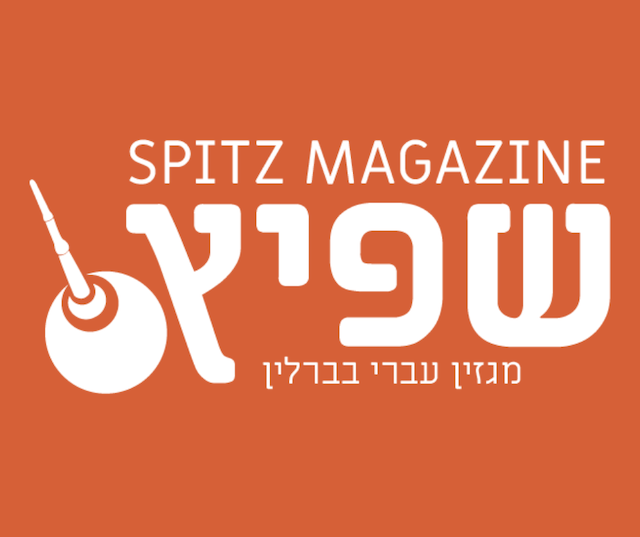
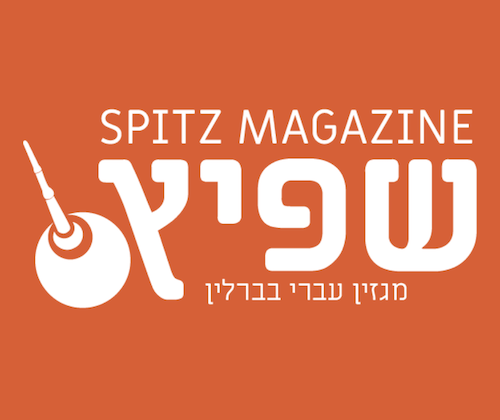
smaller size

diff --git a/index.html b/index.html
@@ -24,10 +24,10 @@
 
 <div class="grid_container" style = "border: double; margin-top:0.5em; background-color: #FEBF6E; text-align: center">
 	<h2 style = "margin-top:1em; font-weight: bold" >à la levant</h2>
-	<p style = "padding:2.2em 5em"> <i> exploring levantine food and community building in Berlin </i> </p>
+	<p style = "padding:2.2em 5em"> <i> exploring levantine food, culture, and community-building in Berlin </i> </p>
 
 	<div class="grid_text_overlay" >
-   			<div class="grid_text" style = "margin: .5em -7em 0em 0em; text-align: left"><h4> <i>The Levant</i>, the region centered around modern Syria, Lebanon, Israel, Palestine, and Jordan, is one full of culture, tradition, and migration. How does food from this area embody, transcend, and build community? <br> We took the melting pot city of Berlin as a use-case and developed <b>à la levant</b>, a delicious collection of interviews and photos reflecting Levantine expression through food. </h4></div>
+   			<div class="grid_text" style = "margin: .5em -7em 0em 0em; text-align: left"><h4> <i>The Levant</i>, the region centered around modern Syria, Lebanon, Israel, Palestine, and Jordan, is one full of culture, tradition, and migration. How does food from this area embody, transcend, and build community? <br> We took the melting pot city of Berlin as a case study and developed <b>à la levant</b>, a delicious collection of interviews and photos reflecting Levantine expression through food. </h4></div>
   		</div>
 
 </div>
@@ -187,10 +187,6 @@
   		</div>
 	</a>
 </div>
-
-
-
-
 
 
 
